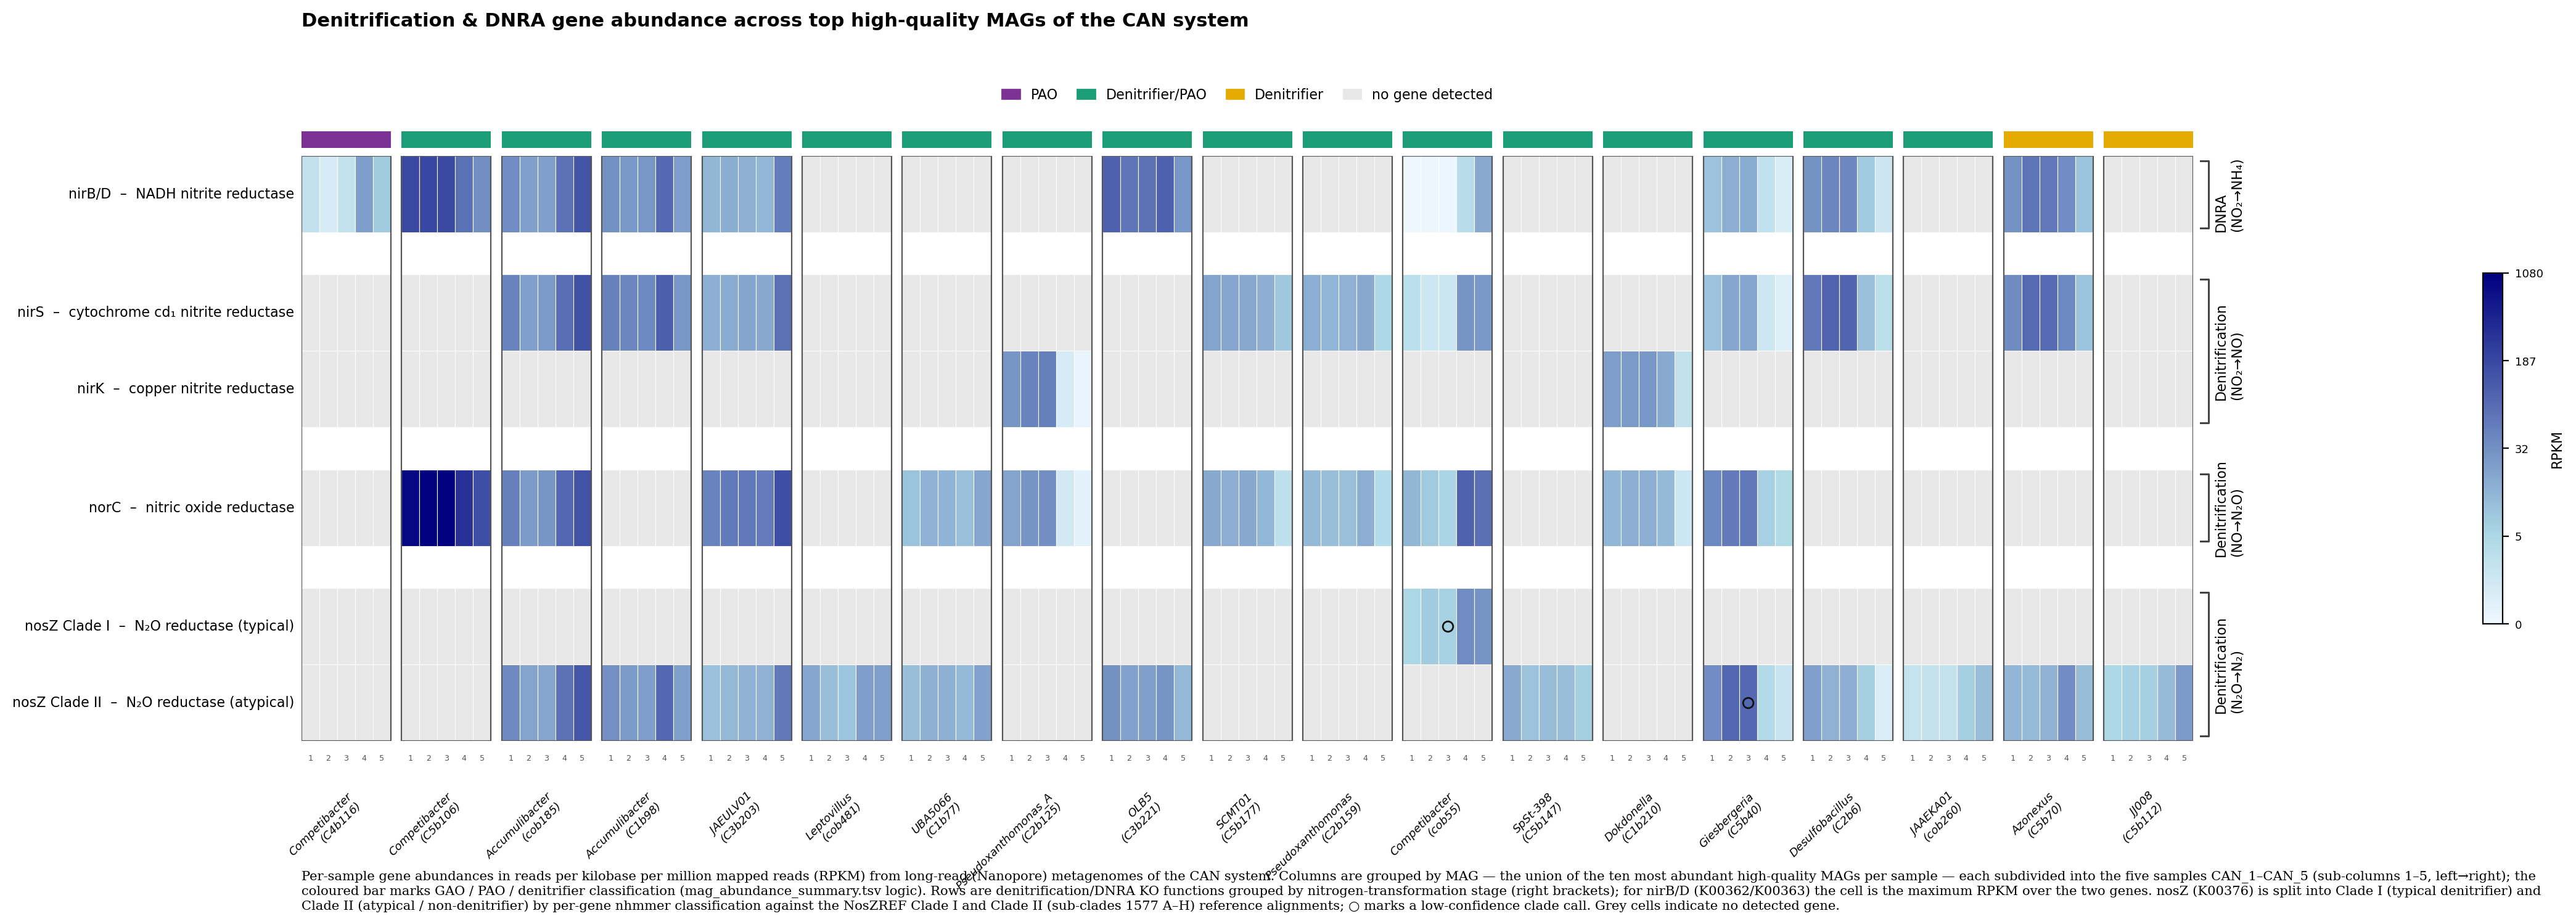
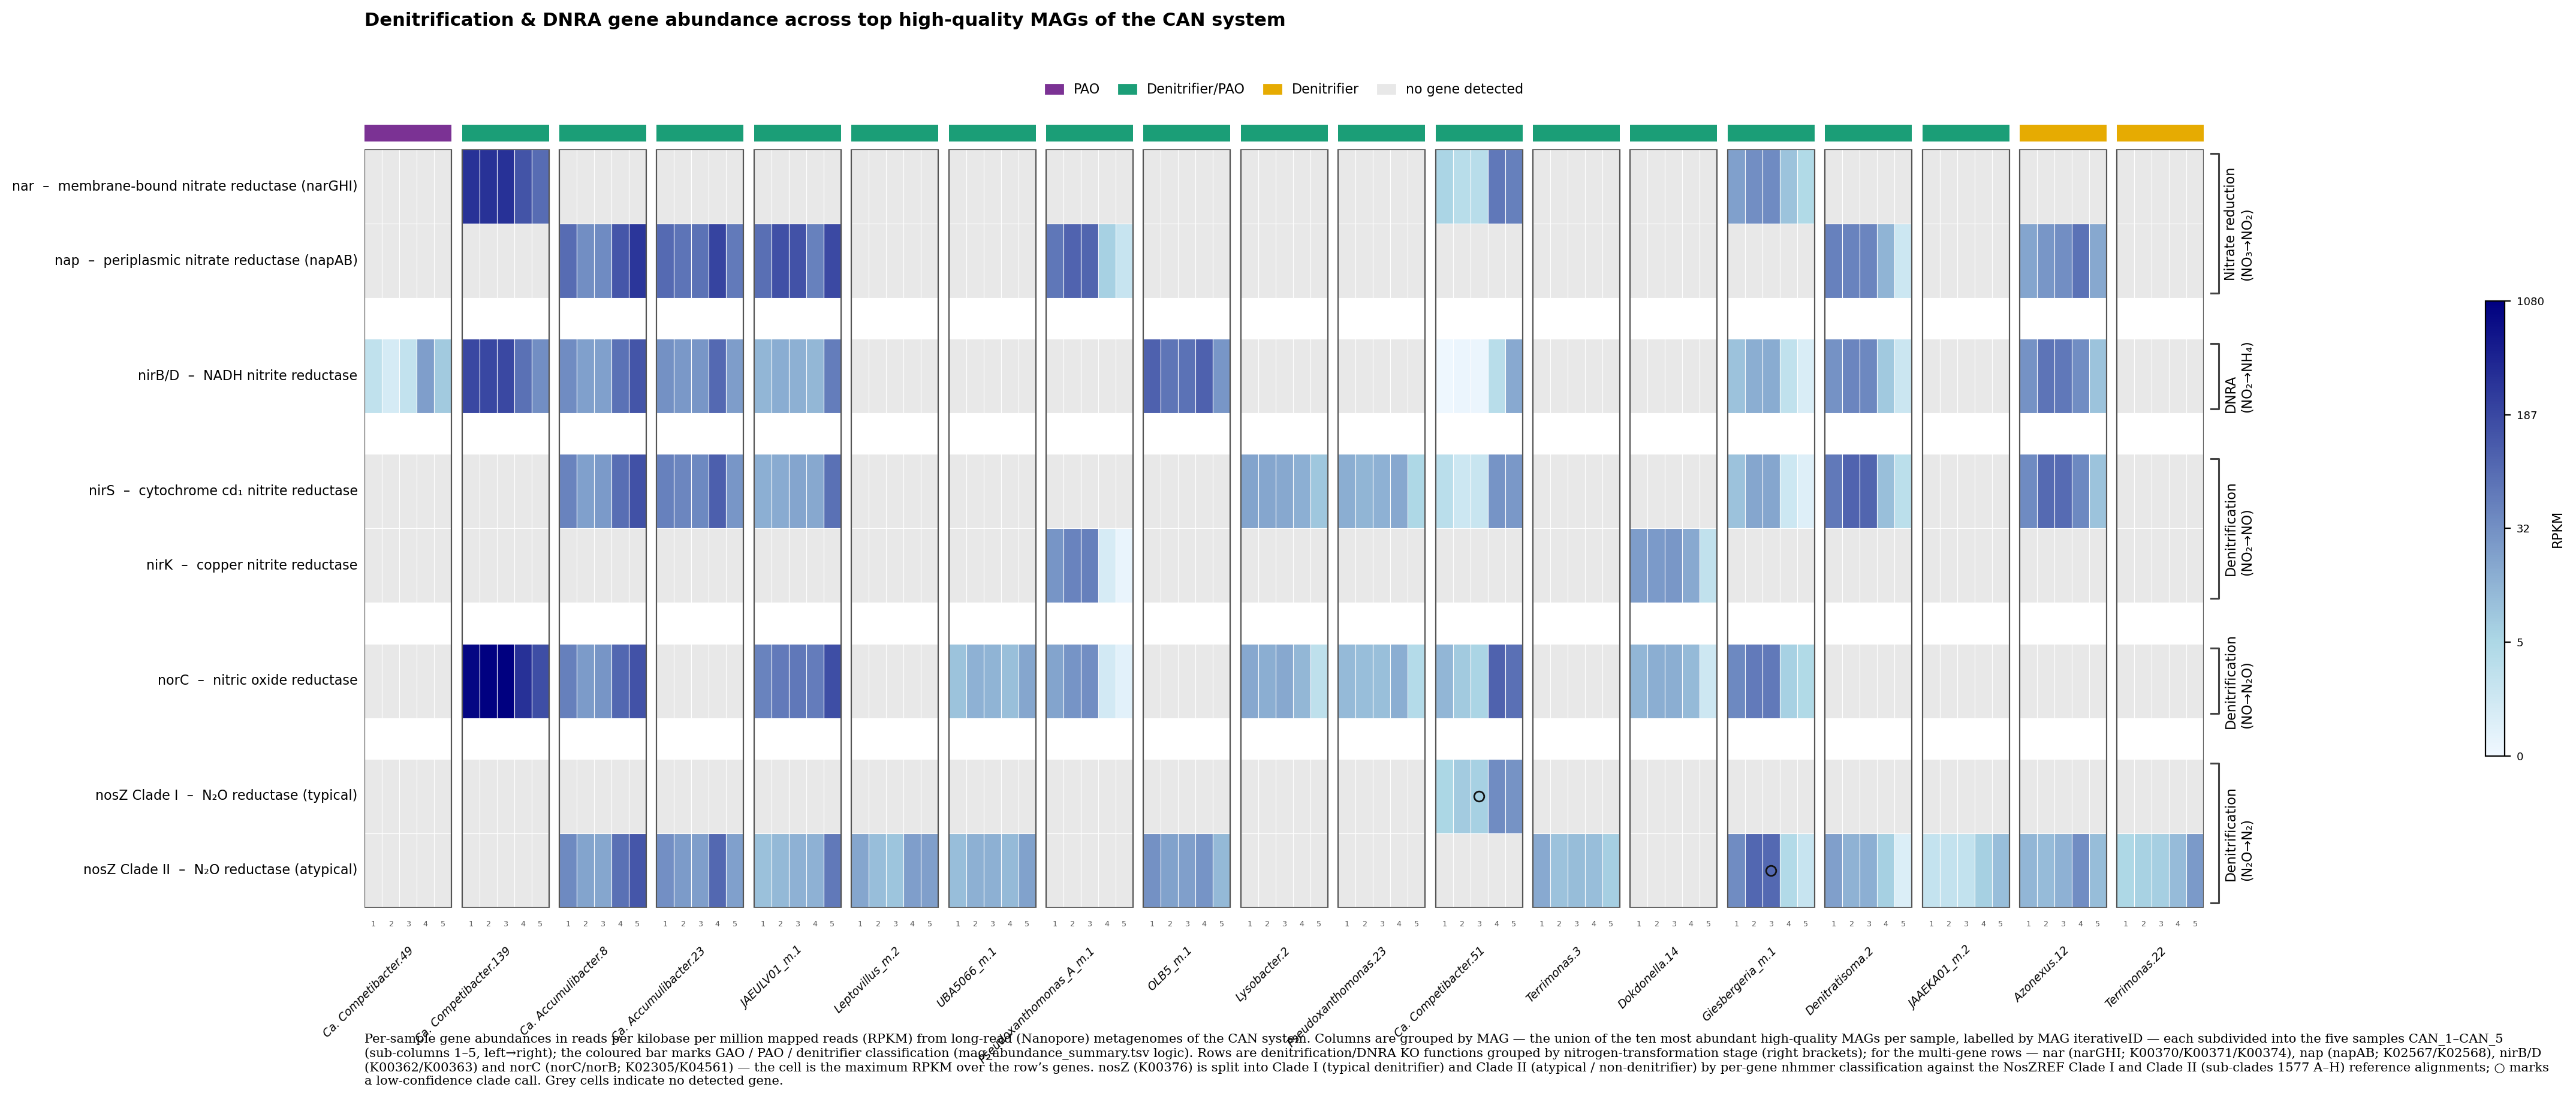
gene_ab_figure: nar/nap rows + iterativeID x-axis on the 21-MAG focal ref
Server-side completion of the nar/nap + Clade II sub-clade handoff, run on the
canonical 21-MAG focal reference (combined_ref.fa) using the existing per-sample
BAMs - NO re-alignment, so the six pre-existing figure rows reproduce the
committed values exactly (max abs diff = 0.0000 across all 570 cells).

What this commit adds on top of the pushed scripts/inputs:
  data/gene_rpkm_per_sample_claded.tsv  6 -> 8 rows: adds nar (narGHI; max over
      K00370/K00371/K00374) and nap (napAB; max over K02567/K02568). Counts from
      samtools view -c -F 4 over the 21-MAG BAMs; total_mapped from idxstats
      (== flagstat == the committed constants). nar in 3 MAGs, nap in 6.
  data/read_counts_raw.tsv              53 -> 73 genes (adds the 20 nar/nap loci).
  gene_abundance_figure.png/.pdf        regenerated: new top row-group
      "Nitrate reduction (NO3->NO2)" with nar/nap, and the x-axis is now labelled
      by MAG iterativeID (taxonomy_labels.tsv mag_iterativeID).
  02b_count_bams.py                     server counter (21-MAG BAMs -> counts_*.json
      for 03c); replaces the Mac's 276-MAG-ref count path (handoff sections 0/9).

Task C (07_cladeII_subclades.py) re-run here reproduces the pushed
data/nosz_cladeII_subclades.tsv byte-for-byte (12 Clade-II genes: 7x II.D,
2x II.G, 2x II.C, 1x II.B). target_genes.bed, napnar_genes.bed, the edited
04/03c/07 and METHODS were already pushed and are unchanged here.
[…]

diff --git a/gene_ab_figure/02b_count_bams.py b/gene_ab_figure/02b_count_bams.py
@@ -1,0 +1,58 @@
+#!/usr/bin/env python3
+"""
+Server-side count generator for 03c (21-MAG focal reference, NO re-alignment).
+
+Produces data/counts_<sample>.json = {"total_mapped": N, "gene_counts": {gid: c}}
+by counting each target_genes.bed interval over the EXISTING 21-MAG BAMs with the
+same method that built the committed figure:
+
+    samtools view -c -F 4 BAM contig:start+1-end     (records overlapping the gene)
+    total_mapped = sum of idxstats 'mapped' over all refs
+                 (verified == samtools flagstat 'mapped' == the committed constants)
+
+This deliberately does NOT use the Mac's count_stream_sam.py / 02_align_local.sh,
+which align to the 276-MAG community reference (handoff §0/§9: conserved genes lose
+70-87% of reads on that ref). BAMs live in the working dir; outputs go to the repo
+data dir so 03c (run from the repo) consumes them.
+"""
+import os, json, subprocess, csv
+
+SAM   = '/scratch1/afreiburger/emilykin/processed/.snakemake_envs/88fdb48d4d745c55ec2cd90b407de422_/bin/samtools'
+BAMDIR = '/scratch1/afreiburger/emilykin/gene_ab_figure/data'           # existing 21-MAG BAMs
+REPO   = os.path.dirname(os.path.abspath(__file__))                      # repo gene_ab_figure
+DATA   = os.path.join(REPO, 'data')
+SAMPLES = ['CAN_1', 'CAN_2', 'CAN_3', 'CAN_4', 'CAN_5']
+BED    = os.path.join(DATA, 'target_genes.bed')
+
+def idxstats_total(bam):
+    out = subprocess.run([SAM, 'idxstats', bam], capture_output=True, text=True).stdout
+    return sum(int(l.split('\t')[2]) for l in out.splitlines() if len(l.split('\t')) >= 3)
+
+def count_region(bam, contig, start0, end):
+    region = f'{contig}:{start0 + 1}-{end}'          # BED 0-based -> samtools 1-based
+    out = subprocess.run([SAM, 'view', '-c', '-F', '4', bam, region],
+                         capture_output=True, text=True).stdout.strip()
+    return int(out) if out.isdigit() else 0
+
+# unique genes (gene_id -> contig,start,end); a gene_id can have multiple KO rows
+genes = {}
+with open(BED) as f:
+    for r in csv.DictReader(f, delimiter='\t'):
+        gid = r['gene_id']
+        if gid not in genes:
+            genes[gid] = (r['prefixed_contig'], int(r['start']), int(r['end']))
+print(f'{len(genes)} unique genes in {BED}')
+
+for s in SAMPLES:
+    bam = os.path.join(BAMDIR, f'aligned_{s}_sorted.bam')
+    if not os.path.exists(bam):
+        raise SystemExit(f'missing BAM {bam}')
+    total = idxstats_total(bam)
+    gene_counts = {gid: count_region(bam, c, s0, e) for gid, (c, s0, e) in genes.items()}
+    out = os.path.join(DATA, f'counts_{s}.json')
+    json.dump({'sample': s, 'total_mapped': total, 'gene_counts': gene_counts},
+              open(out, 'w'), indent=0)
+    nz = sum(1 for v in gene_counts.values() if v)
+    print(f'  {s}: total_mapped={total:,}  genes_with_signal={nz}/{len(genes)}  -> {out}')
+
+print('Done.')